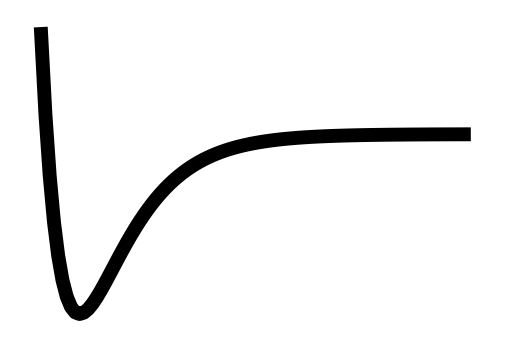
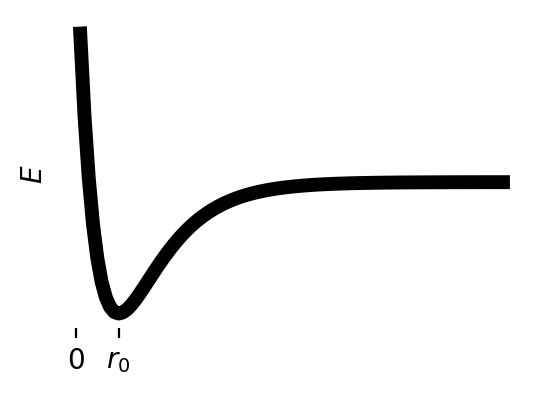
better ff examples

Changed region(s): [[0.0297, 0.0575, 0.9505, 0.9483]]

diff --git a/index.html b/index.html
@@ -8,15 +8,15 @@
 <link href="index_files/libs/quarto-html/light-border.css" rel="stylesheet">
 <link href="index_files/libs/quarto-html/quarto-html.min.css" rel="stylesheet" data-mode="light">
 <link href="index_files/libs/quarto-html/quarto-syntax-highlighting.css" rel="stylesheet" id="quarto-text-highlighting-styles">
+<script src="index_files/libs/quarto-contrib/qrcodejs-v1.0.0/qrcode.js"></script>
 <script src="index_files/libs/quarto-contrib/molstar-v3.13.0/molstar.js"></script>
 <link href="index_files/libs/quarto-contrib/molstar-v3.13.0/molstar.css" rel="stylesheet">
-<link href="index_files/libs/quarto-contrib/molstar-v3.13.0/app-container.css" rel="stylesheet">
-<script src="index_files/libs/quarto-contrib/qrcodejs-v1.0.0/qrcode.js"></script><meta charset="utf-8">
+<link href="index_files/libs/quarto-contrib/molstar-v3.13.0/app-container.css" rel="stylesheet"><meta charset="utf-8">
   <meta name="generator" content="quarto-1.4.554">
 
   <meta name="author" content="Jannik Buhr, MBM">
   <meta name="dcterms.date" content="2024-06-03">
-  <title>KIMMDY A Reactive Molecular Dynamics using Kinetic Monte Carlo</title>
+  <title>KIMMDY Reactive Molecular Dynamics using Kinetic Monte Carlo</title>
   <meta name="apple-mobile-web-app-capable" content="yes">
   <meta name="apple-mobile-web-app-status-bar-style" content="black-translucent">
   <meta name="viewport" content="width=device-width, initial-scale=1.0, maximum-scale=1.0, user-scalable=no, minimal-ui">
@@ -421,7 +421,7 @@
 
 <section id="title-slide" data-background-color="white" data-background-image="./www/helix-wide.png" data-background-position="center bottom -10%" data-background-size="contain" class="quarto-title-block center">
   <h1 class="title"><p><strong>KIMMDY</strong><br>
-A Reactive Molecular Dynamics<br>
+Reactive Molecular Dynamics<br>
 using<br>
 Kinetic Monte Carlo</p></h1>
 
@@ -441,47 +441,41 @@ Jannik Buhr, MBM
 <section id="collagen-has-interesting-chemistry-under-mechanical-stress" class="slide level2" data-background-image="./img/collagen.png" data-background-color="black">
 <h2>Collagen has interesting chemistry under mechanical stress</h2>
 </section>
-<section id="simulating-large-molecular-systems" class="slide level2">
-<h2>Simulating (large) Molecular Systems</h2>
+<section id="how-do-we-simulating-large-molecular-systems" class="slide level2">
+<h2>How do we simulating (large) molecular systems?</h2>
 <div class="columns">
 <div class="column" style="width:50%;">
 <p><img data-src="img/monkey.png" class="img-fluid" style="width:90.0%"></p>
 </div><div class="column" style="width:50%;">
 <h3 id="bonds-do-not-exist.">Bonds do not exist.</h3>
 <div class="r-stack center">
-<p><img data-src="./img/molecule-cpk.png" class="img-fluid"></p>
-<p><img data-src="./img/molecule-vdw.png" class="fragment img-fluid"></p>
+<p><img data-src="./img/molecule-vdw.png" class="img-fluid"></p>
 <p><img data-src="./img/molecule-density.png" class="fragment img-fluid"></p>
+<p><img data-src="./img/molecule-cpk.png" class="fragment img-fluid"></p>
 </div>
 <h3 class="fragment" id="but-lets-pretend-they-do.">But let’s pretend they do.</h3>
 </div>
 </div>
 </section>
-<section id="molecular-dynamics-molecular-mechanics" class="slide level2">
-<h2>Molecular Dynamics / Molecular Mechanics</h2>
-    <iframe id="app-./examples/alanine_hat/just-ala.gro" class="molstar-app" seamless="" allow="fullscreen" srcdoc="
-    <html>
-    <head>
-    <script type=&quot;text/javascript&quot; src=&quot;./molstar.js&quot;></script>
-    <link rel=&quot;stylesheet&quot; type=&quot;text/css&quot; href=&quot;./molstar.css&quot;/>
-    </head>
-    <body>
-    <div id=&quot;app-./examples/alanine_hat/just-ala.gro&quot; class=&quot;molstar-app&quot;></div>
-    <script type=&quot;text/javascript&quot;>
-    molstar.Viewer.create(&quot;app-./examples/alanine_hat/just-ala.gro&quot;, {&quot;pdbProvider&quot;:&quot;rcsb&quot;,&quot;layoutIsExpanded&quot;:false,&quot;layoutShowSequence&quot;:false,&quot;layoutShowLeftPanel&quot;:true,&quot;layoutShowRemoteState&quot;:false,&quot;layoutShowControls&quot;:false,&quot;viewportShowExpand&quot;:true,&quot;layoutShowLog&quot;:false,&quot;viewportShowAnimation&quot;:true,&quot;viewportShowSelectionMode&quot;:false,&quot;emdbProvider&quot;:&quot;rcsb&quot;}).then(viewer => {
-    viewer.loadStructureFromUrl(&quot;./examples/alanine_hat/just-ala.gro&quot;, format=&quot;gro&quot;);    });
-    </script>
-    </body>
-    </html>
-    ">
-    </iframe>
-    
-<div class="box">
-<div class="b">
-<div id="morse">
-<p><span class="math display">\[V_{morse}(r) = D \left(1 - e^{-\beta(r - r_0)}\right)^2\]</span></p>
+<section id="molecular-dynamics-molecular-mechanics-newton-to-the-rescue" class="slide level2">
+<h2>Molecular Dynamics / Molecular Mechanics – Newton to the rescue!</h2>
+<div class="columns">
+<div class="column" style="width:40%;">
+<p><span class="math display">\[E_{total} = E_{bonded} + E_{nonbonded}\]</span> <span class="math display">\[E_{bonded}=E_{\text{bond}}+E_{\text{angle}}+E_{\text{dihedral}}\]</span> <span class="math display">\[E_{nonbonded} = E_{\text{electrostatic}} + E_{\text{van der Waals}}\]</span></p>
+</div><div class="column" style="width:30%;">
+<p><img data-src="./img/molecule-cpk.png" id="mol1" class="img-fluid"></p>
+</div><div class="column" style="width:30%;">
+<p><img data-src="./img/molecule-cpk.png" id="mol2" class="img-fluid"></p>
 </div>
-<div id="1bdb28b3" class="cell" data-execution_count="2">
+</div>
+<h3 class="fragment" id="popular-potential-energy-functions">Popular Potential Energy Functions</h3>
+<hr>
+<div class="columns">
+<div class="column fragment" style="width:30%;">
+<div id="oh">
+<p><img data-src="./img/hyd-oh.png" class="img-fluid"></p>
+</div>
+<div id="26830b12" class="cell" data-execution_count="2">
 <div class="cell-output cell-output-display">
 <div>
 <figure>
@@ -490,12 +484,12 @@ Jannik Buhr, MBM
 </div>
 </div>
 </div>
+<p><span class="math display">\[E_{morse}(r) = D \left(1 - e^{-\beta(r - r_0)}\right)^2\]</span></p>
+</div><div class="column fragment" style="width:30%;">
+<div id="water">
+<p><img data-src="./img/water.png" class="img-fluid"></p>
 </div>
-<div class="b">
-<div id="harmonic">
-<p><span class="math display">\[V_{harmonic}(r) = \frac{1}{2} k (r - r_0)^2\]</span></p>
-</div>
-<div id="d9c0eff3" class="cell" data-execution_count="3">
+<div id="26746ac3" class="cell" data-execution_count="3">
 <div class="cell-output cell-output-display">
 <div>
 <figure>
@@ -504,12 +498,9 @@ Jannik Buhr, MBM
 </div>
 </div>
 </div>
-</div>
-<div class="b">
-<div id="dihedral">
-<p><span class="math display">\[V_{cosine}(\phi) = k_\phi (1 + \cos(n \phi - \delta))\]</span></p>
-</div>
-<div id="b985d24b" class="cell" data-execution_count="4">
+<p><span class="math display">\[E_{harmonic}(r) = \frac{1}{2} k (r - r_0)^2\]</span></p>
+</div><div class="column fragment" style="width:30%;">
+<div id="3ce1a0a2" class="cell" data-execution_count="4">
 <div class="cell-output cell-output-display">
 <div>
 <figure>
@@ -518,10 +509,11 @@ Jannik Buhr, MBM
 </div>
 </div>
 </div>
+<p><span class="math display">\[E_{cosine}(\phi) = k_\phi (1 + \cos(n \phi - \phi_0))\]</span></p>
 </div>
 </div>
 <div id="meme-harmonic" class="fragment">
-<p><img data-src="img/meme-harmonic.png" class="img-fluid"></p>
+<p><img data-src="img/meme-harmonic.png" class="img-fluid" style="width:85.0%"></p>
 </div>
 </section>
 <section id="force-fields-list-the-parameters-for-these-potentials" class="slide level2">
@@ -556,6 +548,9 @@ C            6      12.01    0.0000  A   3.39967e-01  3.59824e-01</code></pre>
 [ angletypes ]
 ...</code></pre>
 </div>
+<div id="harmonic">
+<p><span class="math display">\[V_{harmonic}(r) = \frac{1}{2} k (r - r_0)^2\]</span></p>
+</div>
 </div><div class="column" style="width:50%;">
 <p><img data-src="./img/molecule-cpk.png" class="img-fluid"></p>
 </div>
@@ -568,7 +563,7 @@ C            6      12.01    0.0000  A   3.39967e-01  3.59824e-01</code></pre>
 <p><a href="https://hits-mbm-dev.github.io/kimmdy/" class="uri">https://hits-mbm-dev.github.io/kimmdy/</a></p>
 <div id="qr-kmdy" class="qrcode"></div>
 <script type="text/javascript">
-var qrcode = new QRCode("qr-kmdy", {"colorLight":"#ffffff","colorDark":"#1E4287","height":"250","width":"250","text":"https://hits-mbm-dev.github.io/kimmdy/"});
+var qrcode = new QRCode("qr-kmdy", {"colorDark":"#1E4287","text":"https://hits-mbm-dev.github.io/kimmdy/","height":"250","width":"250","colorLight":"#ffffff"});
 </script>
     
 <p><img data-src="./img/ala-rad.png" id="ala-rad" class="img-fluid"></p>
@@ -650,7 +645,7 @@ var qrcode = new QRCode("qr-kmdy", {"colorLight":"#ffffff","colorDark":"#1E4287"
 </div>
 </div>
 </div><div class="column fragment" style="width:30%;">
-<div id="0b396990" class="cell" data-execution_count="5">
+<div id="e098f391" class="cell" data-execution_count="5">
 <div class="cell-output cell-output-display">
 <div>
 <figure>
@@ -719,7 +714,9 @@ var qrcode = new QRCode("qr-kmdy", {"colorLight":"#ffffff","colorDark":"#1E4287"
 <li>KIMMDY takes care of topology details</li>
 </ul>
 </div><div class="column fragment" style="width:70%;">
-<p>e.g.&nbsp;Hydrolysis <video data-src="./www/hydrolysis.mp4" class="img-fluid" controls=""><a href="./www/hydrolysis.mp4">Video</a></video></p>
+<!-- -->
+<h3 id="example-peptide-bond-hydrolysis">Example: Peptide bond hydrolysis</h3>
+<p><video data-src="./www/hydrolysis.mp4" class="img-fluid" controls=""><a href="./www/hydrolysis.mp4">Video</a></video></p>
 </div>
 </div>
 </section>
@@ -732,14 +729,17 @@ var qrcode = new QRCode("qr-kmdy", {"colorLight":"#ffffff","colorDark":"#1E4287"
 </section>
 <section id="thank-you-1" class="slide level2">
 <h2>Thank You!</h2>
-<div class="#mbm-group">
+<div id="mbm-group">
 <p><img data-src="./www/mbm-group.jpeg" class="img-fluid" style="width:80.0%"></p>
 </div>
-<div id="qr" class="qrcode"></div>
+<div id="qr">
+<p>Slides:</p>
+<div id="qr-slides" class="qrcode"></div>
 <script type="text/javascript">
-var qrcode = new QRCode("qr", {"colorLight":"#ffffff","colorDark":"#1E4287","height":"124","width":"124","text":"https://github.com/hits-mbm-dev/2024-hits-kimmdy"});
+var qrcode = new QRCode("qr-slides", {"colorDark":"#1E4287","text":"https://github.com/hits-mbm-dev/2024-hits-kimmdy","height":"256","width":"256","colorLight":"#ffffff"});
 </script>
     
+</div>
 <div id="bar">
 <div class="profile">
 <ul>
@@ -772,6 +772,26 @@ Cornell, Wendy D., Piotr Cieplak, Christopher I. Bayly, Ian R. Gould, Kenneth M.
 <section id="backup-slides" class="title-slide slide level1 center">
 <h1>Backup Slides</h1>
 
+</section>
+<section id="molecules" class="slide level2">
+<h2>Molecules</h2>
+    <iframe id="app-./examples/alanine_hat/just-ala.gro" class="molstar-app" seamless="" allow="fullscreen" srcdoc="
+    <html>
+    <head>
+    <script type=&quot;text/javascript&quot; src=&quot;./molstar.js&quot;></script>
+    <link rel=&quot;stylesheet&quot; type=&quot;text/css&quot; href=&quot;./molstar.css&quot;/>
+    </head>
+    <body>
+    <div id=&quot;app-./examples/alanine_hat/just-ala.gro&quot; class=&quot;molstar-app&quot;></div>
+    <script type=&quot;text/javascript&quot;>
+    molstar.Viewer.create(&quot;app-./examples/alanine_hat/just-ala.gro&quot;, {&quot;layoutShowControls&quot;:false,&quot;layoutShowLog&quot;:false,&quot;emdbProvider&quot;:&quot;rcsb&quot;,&quot;viewportShowExpand&quot;:true,&quot;pdbProvider&quot;:&quot;rcsb&quot;,&quot;viewportShowAnimation&quot;:true,&quot;layoutShowSequence&quot;:false,&quot;layoutIsExpanded&quot;:false,&quot;layoutShowLeftPanel&quot;:true,&quot;viewportShowSelectionMode&quot;:false,&quot;layoutShowRemoteState&quot;:false}).then(viewer => {
+    viewer.loadStructureFromUrl(&quot;./examples/alanine_hat/just-ala.gro&quot;, format=&quot;gro&quot;);    });
+    </script>
+    </body>
+    </html>
+    ">
+    </iframe>
+    
 </section>
 <section id="topology" class="slide level2">
 <h2>Topology</h2>

diff --git a/www/styles.css b/www/styles.css
@@ -65,13 +65,6 @@
   margin-bottom: 1lh;
 }
 
-
-.box {
-  display: flex;
-  align-content: first-baseline;
-  justify-content: space-between;
-}
-
 div .molstar-app {
   height: 500px;
   position: relative;
@@ -81,10 +74,24 @@ div .molstar-app {
   max-width: 100%;
 }
 
+#oh {
+  position: absolute;
+  bottom: 40%;
+  left: 5%;
+  width: 10%;
+}
+
+#water {
+  position: absolute;
+  bottom: 25%;
+  left: 40%;
+  width: 25%;
+}
+
 #meme-harmonic {
   position: absolute;
-  top: 5%;
-  left: 0%;
+  top: 3%;
+  right: 0;
   z-index: 10;
 }
 
@@ -92,14 +99,6 @@ div .molstar-app {
   position: absolute;
   top: 40%;
   left: 50%;
-}
-
-div.b>div>div>div>figure>p>img {
-  margin-bottom: 0;
-}
-
-.nb {
-  border-style: none;
 }
 
 .profile li {
@@ -113,10 +112,11 @@ div.b>div>div>div>figure>p>img {
 
 #bar {
   position: absolute;
-  bottom: 0;
+  bottom: 5%;
   background-color: #1E4287;
-  width: 90%;
+  width: 80%;
 }
+
 
 #bar .profile {
   display: flex;
@@ -141,6 +141,7 @@ div.b>div>div>div>figure>p>img {
   position: absolute;
   top: 0%;
   right: 0%;
+  width: 256px;
 }
 
 #qr-kmdy {
